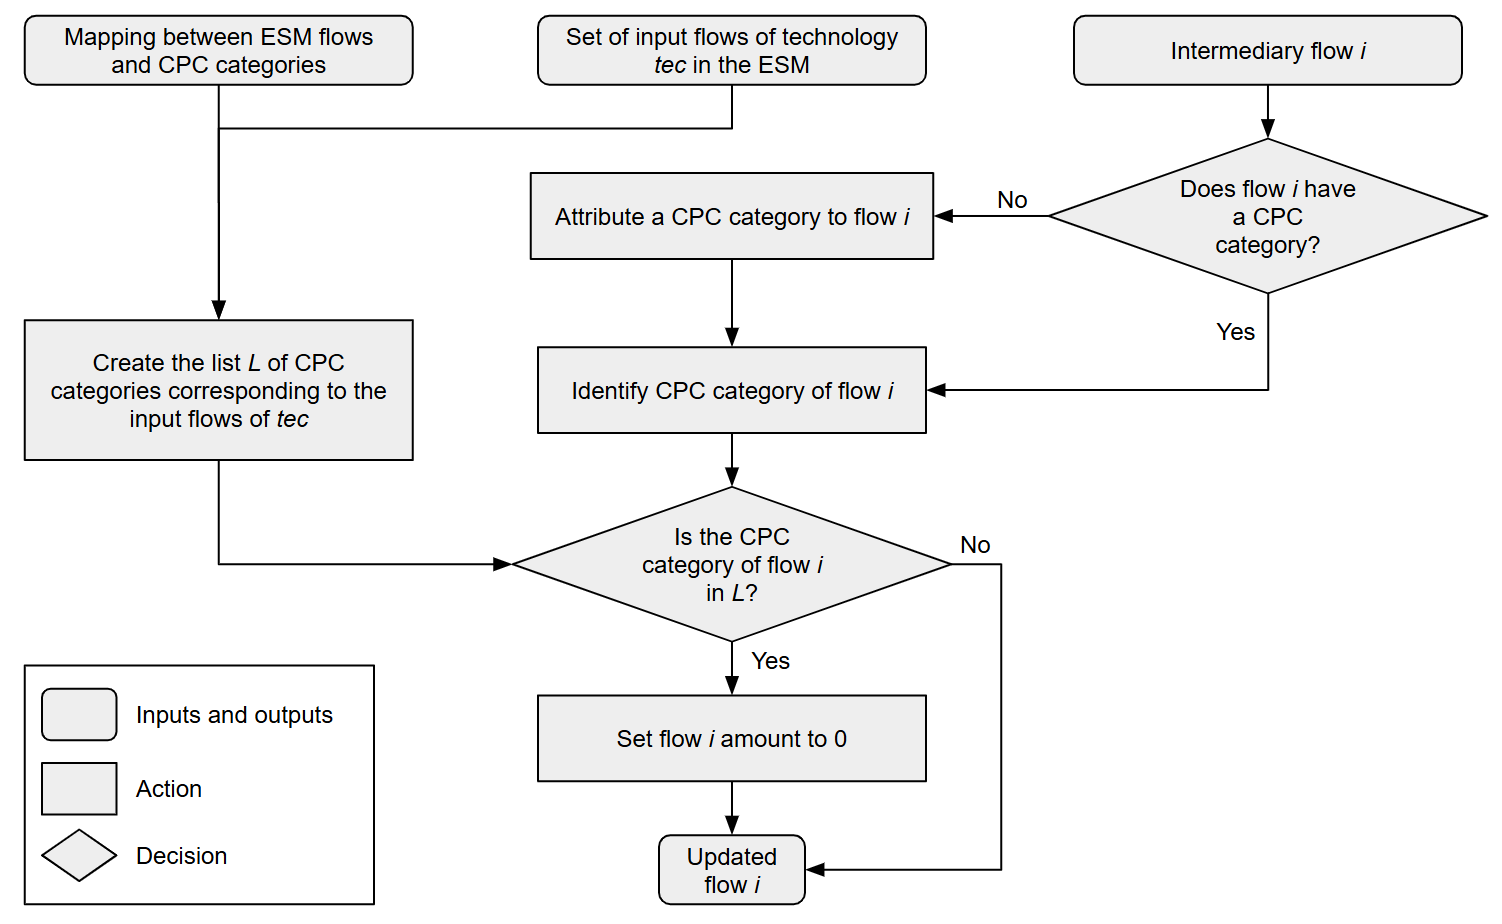
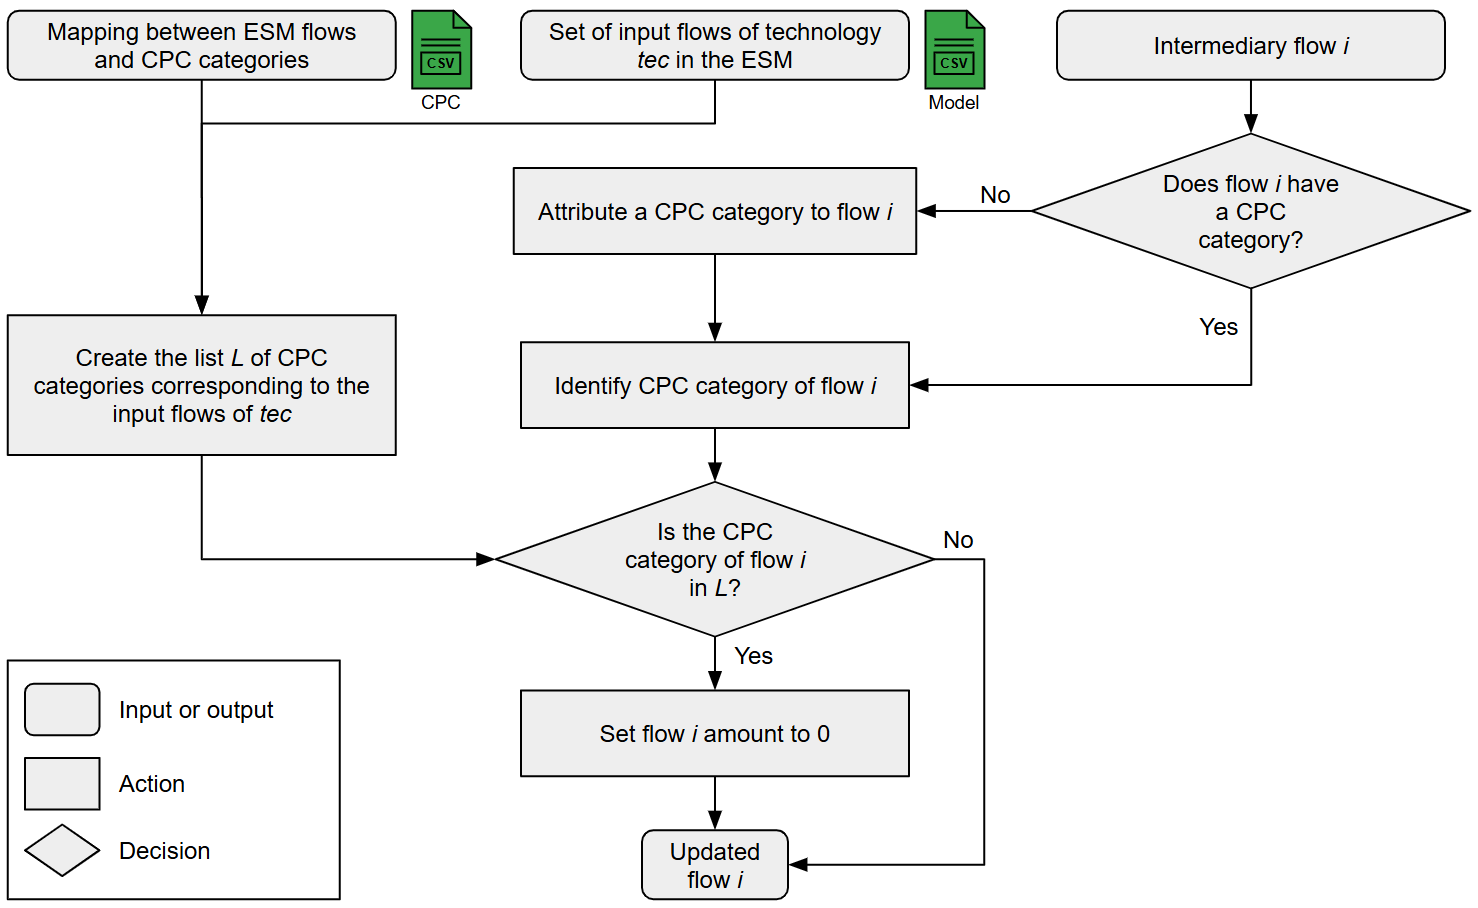
WIP: updated figures and writing

diff --git a/paper.md b/paper.md
@@ -33,36 +33,38 @@ bibliography: paper.bib
 
 # Summary
 `mescal` is a Python package that integrates Life-Cycle Assessment (LCA) indicators within Energy System Models 
-(ESM). `mescal` generates a set of LCA indicators for each technology and resource of the ESM. These indicators may be 
-employed in an ex-post analysis, or be integrated as parameters in the ESM to add environmental constraints or define 
-environmental objective functions. 
-Furthermore, `mescal` propagates the ESM results back to the Life-Cycle Inventory (LCI) database, thus allowing energy 
-modellers and LCA practitioners to include ESM results in their analysis.
+(ESM). Based on the choice of one or several impact assessment methods, `mescal` generates a set of LCA indicators 
+for each technology and resource of ESM. These indicators may be employed in an ex-post analysis, or be 
+integrated as parameters in ESM to add environmental constraints or define environmental objective functions. 
+Furthermore, `mescal` propagates ESM results back to the Life-Cycle Inventory (LCI) database, thus allowing energy 
+modellers and LCA practitioners to include ESM projections in their sustainability analyses.
 
 # Statement of need
 Most ESM integrate carbon emissions in their modelling to propose and assess climate change mitigation scenarios.
-However, the environmental assessment of energy system transitions should not be limited to carbon emissions.
+However, the environmental assessment of energy transition transitions should not be limited to carbon emissions.
 The United Nations highlighted three major environmental challenges that humanity is currently facing: climate change, 
 biodiversity loss, and air pollution [@unfccc2022]. Sustainability assessment tools like LCA integrate an even broader 
-set of environmental impact categories, such as water use, land use, human toxicity, mineral resource use, etc.
-It is therefore essential to enlarge the environmental assessment of energy transitions scenarios while keeping 
+set of environmental impact categories, including as water use, land use, human toxicity, mineral resource use, etc.
+It is therefore essential to enlarge the environmental assessment of energy transition scenarios while keeping 
 comparable, robust and transparent methods [@hellweg2023].
 
-LCA is often used as a post-processing tool to assess the environmental impacts of energy system scenarios. 
-However, this results in ex-post analyses, where LCA indicators cannot be used actively in the modelling process. 
+LCA is often used as a post-processing tool to assess the environmental impacts of energy transition scenarios. 
+However, ex-post analyses do not allow LCA indicators to be used actively in the modelling process and thus in 
+the scenarios design. 
 To this end, LCA indicators need to be endogenously integrated in ESM to define environmental constraints or objectives.
 Several studies have endogenously integrated LCA indicators in ESM [@rauner2017; @vandepaer2020; @reinert2022], but 
 they are ESM-specific and hardly reproducible.
 
-Recently, @sacchi2024 presented `pathways`, a Python package using the `brightway` framework [@mutel2017] that 
-assess energy transition scenarios with LCA. 
-This tool allows a fully transparent and reproducible assessment of energy transition scenarios generated by ESM or Integrated 
-Assessment Models (IAM). However, `pathways` does not allow the direct integration of LCA indicators in ESM or IAM, 
-neither the dynamic propagation of ESM results back to the LCI database.
+Recently, @sacchi2024 presented `pathways`, a Python package that assess energy transition scenarios with LCA. 
+Based on the `brightway` framework [@mutel2017], this tool allows a fully transparent and reproducible assessment of 
+energy transition scenarios generated by ESM or Integrated Assessment Models (IAM). 
+However, `pathways` does not allow the direct integration of LCA indicators in ESM or IAM, neither the dynamic 
+propagation of ESM results back to the LCI database.
 
-To address these limitations, the open-source Python package `mescal` endogenously integrates LCA indicators in ESM
-and modifies the LCI database to account for ESM results. `mescal` is based upon `wurst` and the `brightway` framework 
-[@mutel2017].
+To address these limitations, the Python package `mescal` endogenously integrates LCA indicators in ESM
+and modifies the LCI database to account for ESM results. `mescal` is an open-source library based upon `wurst` and 
+the `brightway` framework [@mutel2017], which aims to enhance transparency and comparability among ESM envisioning an 
+enlarged set of sustainability metrics.
 
 # Description
 `mescal` reads four mandatory CSV files:
@@ -72,7 +74,7 @@ database, e.g., _ecoinvent_ [@wernet2016].
 
 - `Model.csv`: the input and output flows of ESM technologies. 
 
-- `Conversion factors.csv`: the set of unit conversion factors between ESM processes and their LCI datasets.
+- `Conversion factors.csv`: the set of unit conversion factors between ESM processes and their mapped LCI datasets.
 
 - `CPC.csv`: the mapping between ESM flows and Central Product Classification (CPC) categories [@unitednations2015].
 
@@ -80,67 +82,82 @@ In addition, `mescal` reads several optional CSV files, including:
 
 - `Lifetime.csv`: the lifetime of the ESM technologies in the ESM and in the LCI database.
 
-- `Efficiency.csv`: the list of ESM technologies for which efficiency adjustment will be performed.
+- `Efficiency.csv`: the list of ESM technologies and their input fuel type for which efficiency adjustment will be 
+performed.
+
+- `Ranking locations.csv`: the ranking of preferred locations available in the LCI database with respect to the ESM 
+geographical context. 
+
+`mescal` operates a set of systematic transformations on LCI datasets to make them consistent with the ESM 
+(\autoref{fig:workflow}).
+
+![`mescal` workflow.\label{fig:workflow}](docs/pics/workflow_v2.png)
 
 ## Mapping between ESM processes and LCI datasets
-Each technology or resource of the ESM is mapped with one or several LCI datasets. 
+Each technology or resource of the ESM is mapped with one or several LCI datasets (`Mapping.csv`). 
 Technologies are typically mapped with two LCI datasets: 1) an operation LCI dataset, which encompasses 
 the use phase of the technology's life cycle, and 2) an infrastructure LCI dataset, which encompasses the 
 construction and dismantling phases of the technology's life cycle. 
 The ESM resources are typically mapped with one operation LCI dataset. Regarding LCI databases, `mescal` is suited for 
-any version of the _ecoinvent_ database [@wernet2016] and any LCI database generated via `premise` [@sacchi2022].
+any version of the _ecoinvent_ database [@wernet2016] and any LCI database generated via `premise` [@sacchi2022], which 
+generates prospective versions of _ecoinvent_ using IAM projections.
 
 ## Regionalization of LCI datasets
 To overcome a potential lack of location-specific LCI datasets in the LCI database, the inventory can 
 be regionalized. Inventory regionalization refers to the enhancement of the geographic representativeness of the 
 inventory data, which includes the type and quantity of intermediary and elementary flows 
 [@patouillard2018]. `mescal` regionalizes the foreground inventory by modifying the geographical location of 
-the flows of all infrastructure and operation LCI datasets according to a user-defined ranking of preferred locations 
-(\autoref{fig:flowchart_regionalization}). The types and quantities of the flows remain unchanged. The background 
-inventory can be regionalized too using the `regioinvent` tool [@maximeagez2025].
+the flows of all infrastructure and operation LCI datasets according to the user-defined ranking of preferred locations 
+`Ranking locations.csv` (\autoref{fig:flowchart_regionalization}). 
+Foreground regionalization is always performed for intermediary flows, and also for elementary flows if the LCI database 
+is spatialized, i.e., if a geographic location has been attributed to elementary flows [@patouillard2018]. 
+The types and quantities of the flows remain unchanged. The LCI database can be spatialized and its background 
+inventory can be regionalized using the `regioinvent` tool [@maximeagez2025].
 
 ![Flowchart of the regionalization process.\label{fig:flowchart_regionalization}](docs/pics/regionalization_flowchart.png){ width=75% }
 
 ## Double-counting removal
-Double-counting refers to the overestimation of impacts due to the multiple occurrence of the same flow, potentially 
+Double-counting refers to the overestimation of impacts due to the multiple occurrence a flow, potentially 
 represented through different energy vectors, within the energy system supply chain. Volkart et al. proposed a solution 
 to the double-counting issue by setting to zero all flows in the foreground inventory that were also modelled in the ESM
 [@volkart2018]. This approach is implemented in `mescal` by identifying the flows to be nullified using their CPC 
-categories [@unitednations2015] (\autoref{fig:flowchart_double_counting}). In the case of market-type LCI datasets, 
+categories [@unitednations2015] (\autoref{fig:flowchart_double_counting}). If infrastructure LCI datasets are used, 
+the infrastructure input flows operation LCI datasets are set to zero. In the case of market-type LCI datasets, 
 the flows to be nullified are contained in the background. `mescal` determines the set of LCI datasets on which the 
-double-counting removal process should be applied via a recursive algorithm exploring the market-type dataset background.
+double-counting removal process should be applied via a recursive algorithm exploring the market-type datasets backgrounds.
 
 ![Flowchart of the double-counting removal process.\label{fig:flowchart_double_counting}](docs/pics/double_counting_flowchart.png)
 
 ## ESM and LCA database harmonization
 `mescal` adjusts LCI datasets and LCIA scores to account for differences between the ESM and LCI databases:
 
-- **Technologies lifetime**: `mescal` adjusts LCA scores to integrate the difference in lifetime between the ESM technologies and
-their infrastructure LCI datasets. The specific LCIA impact is multiplied by the ratio between the ESM lifetime and the LCI 
+- **Technologies lifetime**: `mescal` adjusts LCIA scores to integrate the difference in lifetime between ESM technologies and
+their infrastructure LCI datasets. The specific LCIA score is multiplied by the ratio between the ESM lifetime and the LCI 
 dataset lifetime to ensure that the annual impact in the ESM is computed with the LCI dataset lifetime. 
-This ensures that the coherence between the LCA score and the LCI dataset lifetime is maintained.
+This ensures the coherence between the LCIA score and the LCI dataset lifetime.
 
-- **Technologies efficiency**: Even if fuel flows are set to zero in the operation LCI dataset to prevent 
-double-counting, a difference in efficiency between an ESM technology and its corresponding operation LCI 
-dataset would result in inconsistencies regarding the amount of direct emissions. `mescal` resolves this issue by adjusting 
+- **Technologies efficiency**: Even if input fuel flows are set to zero in the operation LCI dataset to prevent 
+double-counting, a difference in efficiency between a technology and its corresponding operation LCI 
+dataset would result in an inconsistency regarding the amount of direct emissions. `mescal` resolves this issue by adjusting 
 the amount of direct emissions proportionally to the efficiency difference. Except land occupation, land transformation and 
-energy elementary flows, the amounts of all elementary flows in operation LCI datasets are adjusted using the ratio 
-between the ESM and LCI dataset efficiencies. The efficiency of the operation LCI dataset is computed 
-using the quantity of fuel that was removed during the double-counting removal step. This transformation is applied to a 
-list of ESM technologies given by the user, typically technologies involving a combustion process. 
+energy elementary flows, the amounts of all elementary flows in the direct emissions of the operation LCI datasets are adjusted 
+using the ratio between the ESM and LCI dataset efficiencies (`Lifetime.csv`). The efficiency of the operation LCI dataset is computed 
+using the quantity of fuel that was removed during the double-counting removal step, while the efficiency of the ESM 
+process is computed from `Model.csv`. This transformation is applied to a list of ESM technologies given by the user 
+(`Efficiency.csv`), typically technologies involving a combustion process. 
 
 - **Physical units**: The energy and material output flows may be expressed in different units in the ESM and the LCI 
-database. Specific LCA scores are multiplied by a conversion factor, which converts the specific LCA 
+database. Specific LCIA scores are multiplied by a conversion factor, which converts the specific LCA 
 scores physical unit from [impact category unit / LCI output unit] to [impact category unit / ESM output unit]. 
 Conversion factors encompass LCI datasets assumptions such as capacity factors or vehicle load factors.
 
 - **Generation of new LCI datasets**: `mescal` generates new LCI datasets by operating modifications on existing ones, 
-to enhance their alignment with the ESM technology. For example, biodiesel-fuelled mobility LCI datasets are created by 
-replacing direct fossil carbon emissions by biogenic carbon emissions, while the diesel input is set to zero during the 
-double-counting removal step. 
+to enhance their alignment with the corresponding ESM technology. For example, biodiesel-fuelled mobility LCI datasets
+are created by replacing direct fossil carbon emissions by biogenic carbon emissions, while the fossil diesel input is 
+set to zero during the double-counting removal step. 
 
 ## Life-Cycle Impact Assessment
-`mescal` can compute LCA indicators using any impact assessment method, e.g., IMPACT World+ [@bulle2019], ReCiPe 
+`mescal` can compute LCA indicators using any set of impact assessment methods, e.g., IMPACT World+ [@bulle2019], ReCiPe 
 [@huijbregts2017] or Environmental Footprint (EF) [@europeancommission.jointresearchcentre.2018]. 
 
 ## Normalization of LCA indicators 
@@ -149,39 +166,39 @@ normalization is beneficial in facilitating the solver's convergence, given that
 significant discrepancies in magnitude across impact categories. By aligning all metrics within a comparable order of 
 magnitude, numerical stability is improved in the solving process. Furthermore, considerable discrepancies in magnitude 
 may be observed between infrastructure and operation LCA indicators within the same impact category, given that 
-these are not expressed with the same unit. Consequently, an adjustment factor was applied to infrastructure LCIA indicators, 
-with the objective of ensuring that both the highest infrastructure and operation metric were normalized to 1. 
-This adjustment factor is accounted when converting the normalized results into physical results.
+these are not expressed with the same physical unit. Consequently, an adjustment factor was applied to infrastructure 
+LCIA scores, to ensure that the maximum infrastructure and operation metrics of a given impact category are both 
+normalized to 1. This adjustment factor is accounted when converting the normalized impact scores into physical impact 
+scores.
 
 ## Integrating ESM results in the LCI database
 In ordre to update the LCI database with the ESM results, `mescal` overwrites the relevant LCI datasets, 
-e.g., markets for electricity, heat or mobility, for the location of interest.
-This allows the accounting of past changes in the energy system environmental profile within a myopic transition 
-pathway model.
+i.e., LCI datasets that are in the sectoral and geographical scope of the ESM, such as markets for electricity, heat or 
+transport. 
 
-\autoref{fig:workflow} shows the `mescal` workflow.
-
-![`mescal` workflow.\label{fig:workflow}](docs/pics/workflow_v2.png)
+## Example notebook
 
 An [example notebook](https://github.com/matthieu-str/mescal/blob/master/examples/tutorial.ipynb) is available to 
 illustrate the use of `mescal`.
 
 # Impact
 `mescal` enables the integration of environmental constraints in ESM and the environmental assessment of energy 
-transition scenarios. The use of LCA makes the sustainability assessments of energy modellers more holistic, thus 
-highlighting the potential trade-offs, benefits, and adverse side effects of energy system transitions.
+transition scenarios. The use of LCA makes sustainability assessments of energy modellers more holistic, thus 
+highlighting the potential trade-offs, benefits, and adverse side effects of energy transition pathways among 
+the environmental and economic performance indicators.
 
-`mescal` is aimed to be used by energy modellers who are not LCA experts but want to enlarge the set of environmental 
-indicators in their model. Additionally, `mescal` can be used by LCA practitioners to generate prospective LCI datasets, 
-e.g., prospective markets for electricity, heat and mobility.
+`mescal` is aimed to be used by energy modellers who might not be LCA experts but want to enlarge the set of environmental 
+indicators in their model in a transparent and reproducible way. 
+Additionally, `mescal` can be used by LCA practitioners to generate prospective LCI datasets, e.g., prospective markets 
+for electricity, heat or transport that follow the projections of an ESM.
 
 As an example, `mescal` methodology has been applied by @schnidrig2024 with the _EnergyScope_ model [@moret2017] 
 to analyse environmental-economic trade-offs in Swiss energy system transitions.
 
 # Conclusion
 `mescal` is a Python package that couples LCA with ESM. It integrates LCA indicators in ESM to enlarge the set of
-sustainability indicators and thus better highlight trade-offs of energy system transitions. Additionally, it integrates 
-the results of ESM back to the LCI database, thus allowing LCA practitioners to include ESM projections in their analysis. 
+sustainability indicators and thus better highlight trade-offs of energy transition pathways. Additionally, it integrates 
+the results of ESM back to the LCI database, thus allowing LCA practitioners to include ESM projections in their analyses. 
 
 # Acknowledgements
 The authors gratefully acknowledge the financial support of the _Fonds de recherche du Québec - Nature et 
